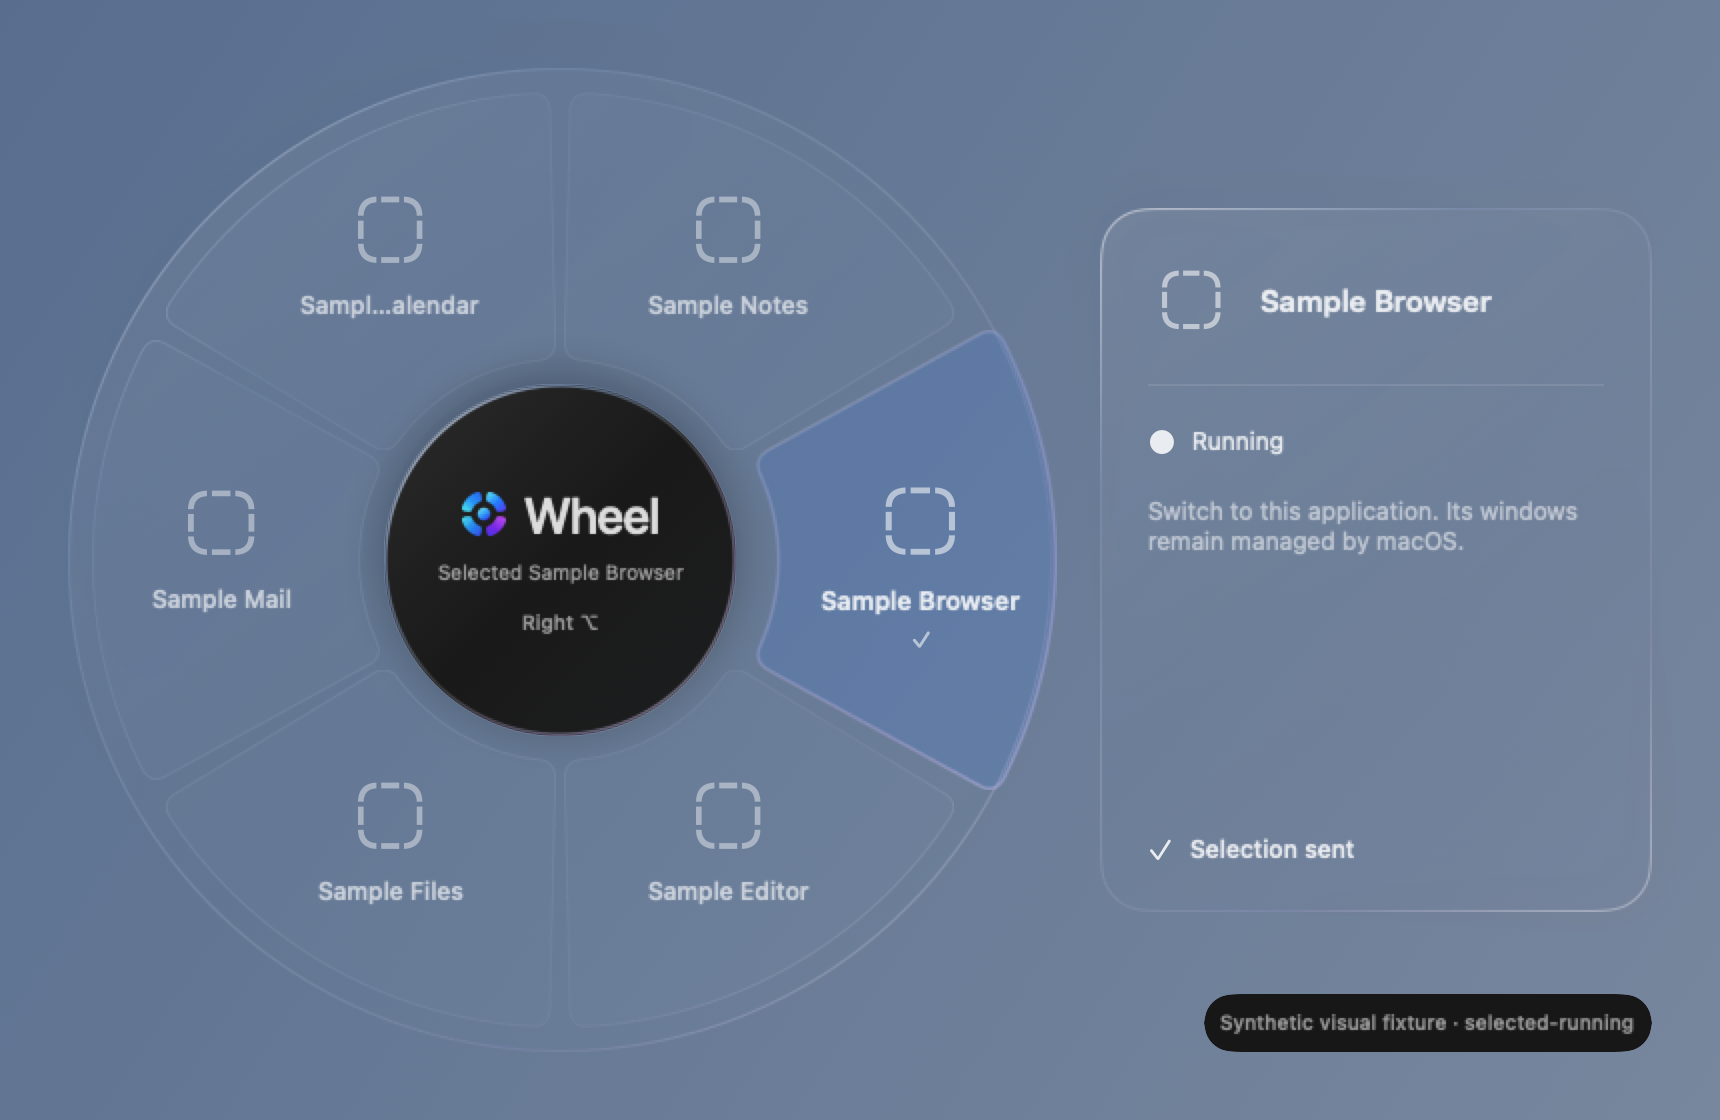
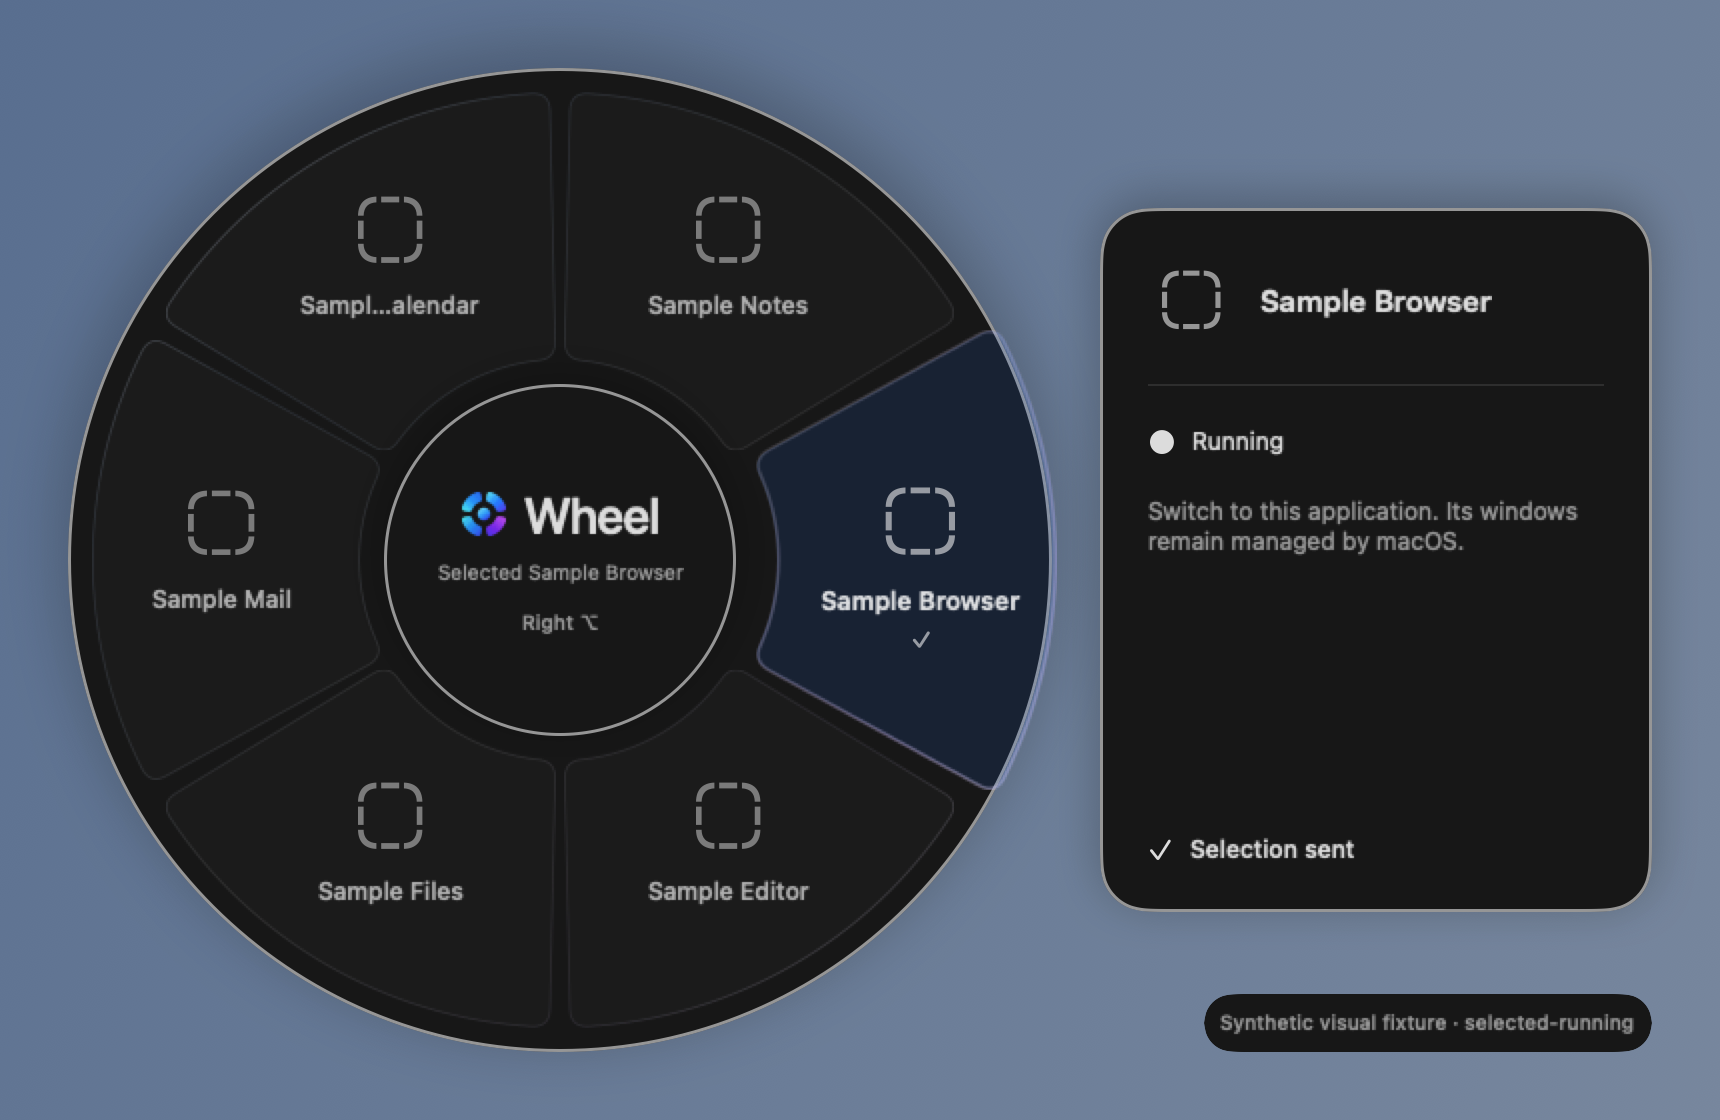
docs: use readable accessibility fallback for overlay evidence

diff --git a/docs/BRAND_QA.md b/docs/BRAND_QA.md
@@ -47,7 +47,7 @@ Spotlight indexing of the temporary installation is pending/unavailable.
 | [Resolved application icon](../Brand/Previews/WheelResolvedAppIcon.png) | Native `NSWorkspace` icon lookup for the installed `.app`; no Finder window capture |
 | [Status label Light](assets/readme/menu-status-label-light.png) / [Dark](assets/readme/menu-status-label-dark.png) | Actual `WheelMenuBarLabel`, without desktop/menu-bar chrome |
 | [Menu popover](assets/readme/menu-bar.png) | Actual menu view with synthetic state and the opaque accessibility fallback |
-| [Overlay](assets/readme/wheel-overlay.png) | Actual overlay view with synthetic identities/background |
+| [Overlay](assets/readme/wheel-overlay.png) | Actual overlay view with synthetic identities/background and the opaque Reduce Transparency fallback |
 | [About Light](assets/readme/settings-about-light.png) / [Dark](assets/readme/settings-about.png) | Actual About detail component with metadata from the packaged app |
 
 The local CI harness used canonical temporary paths and ad-hoc signing for its

diff --git a/README.md b/README.md
@@ -49,7 +49,7 @@ The images below are rendered by the **packaged Wheel.app** from its production 
 
 <img src="docs/assets/readme/wheel-overlay.png" alt="Wheel overlay showing a selected running application" width="860" />
 
-The HUD stays nonactivating and click-through. A selected destination shows application state and the release action without pretending to expose window or document previews.
+The HUD stays nonactivating and click-through. A selected destination shows application state and the release action without pretending to expose window or document previews. This export uses the real Reduce Transparency fallback for readable surfaces; live native glass requires desktop review.
 
 ### Layout and pinned applications
 
